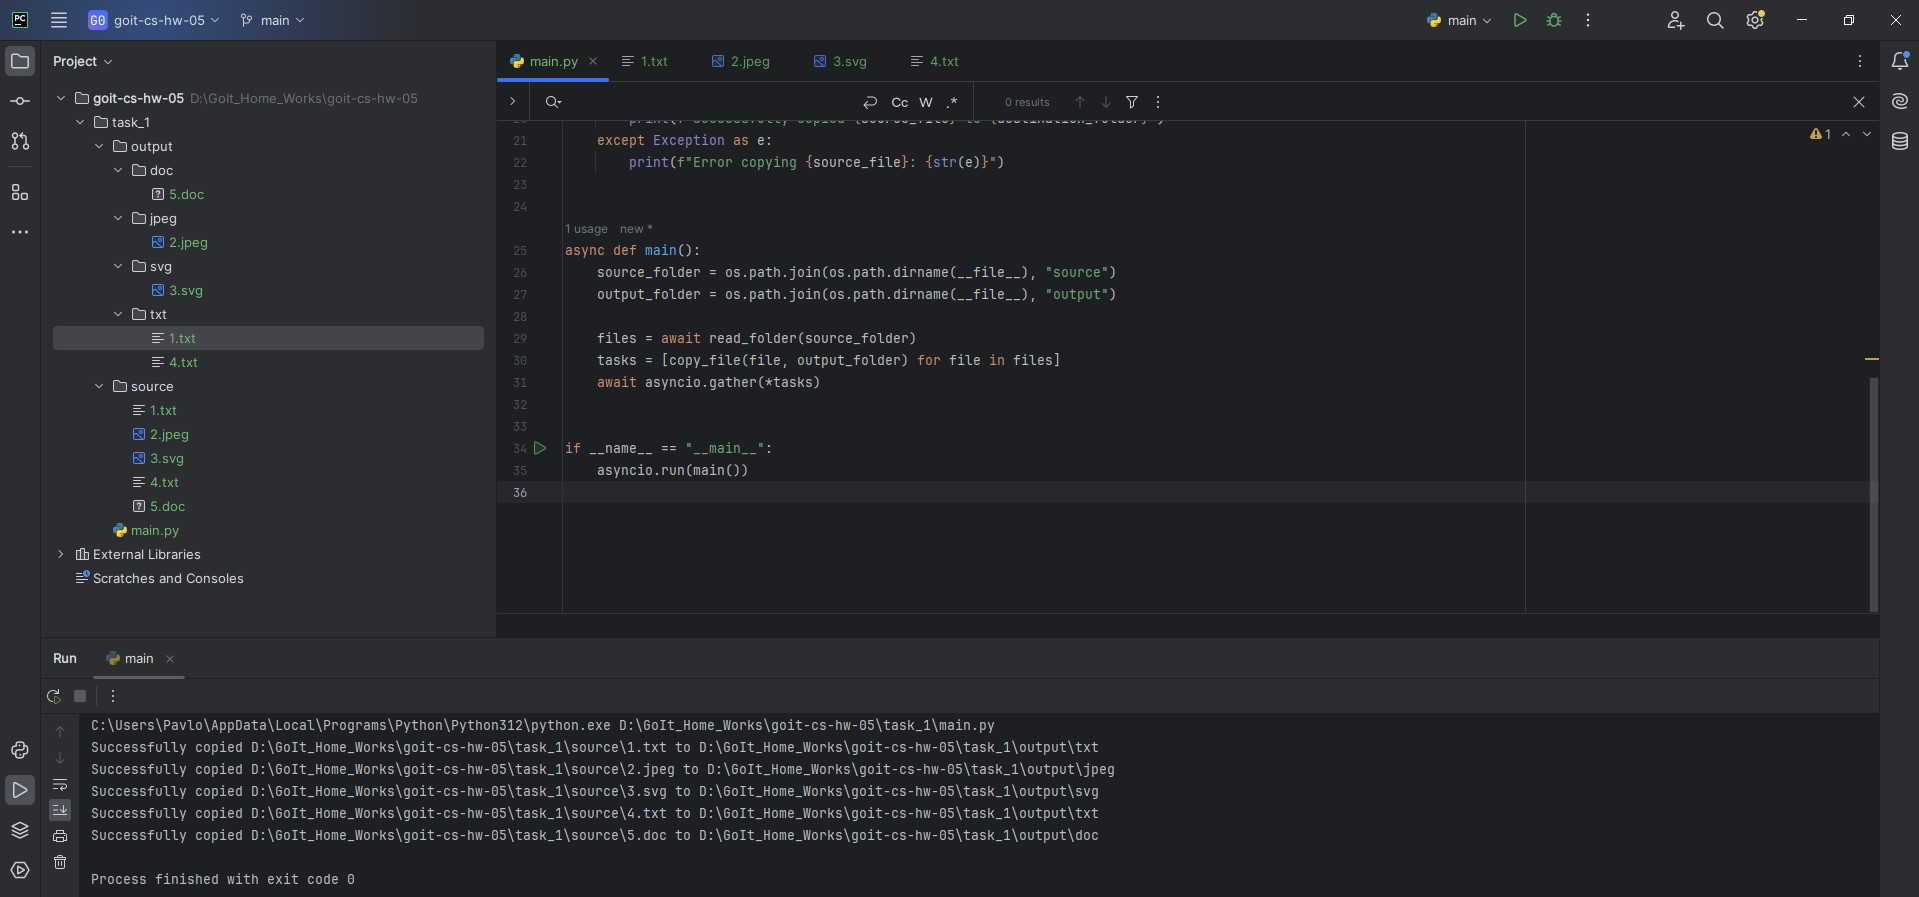
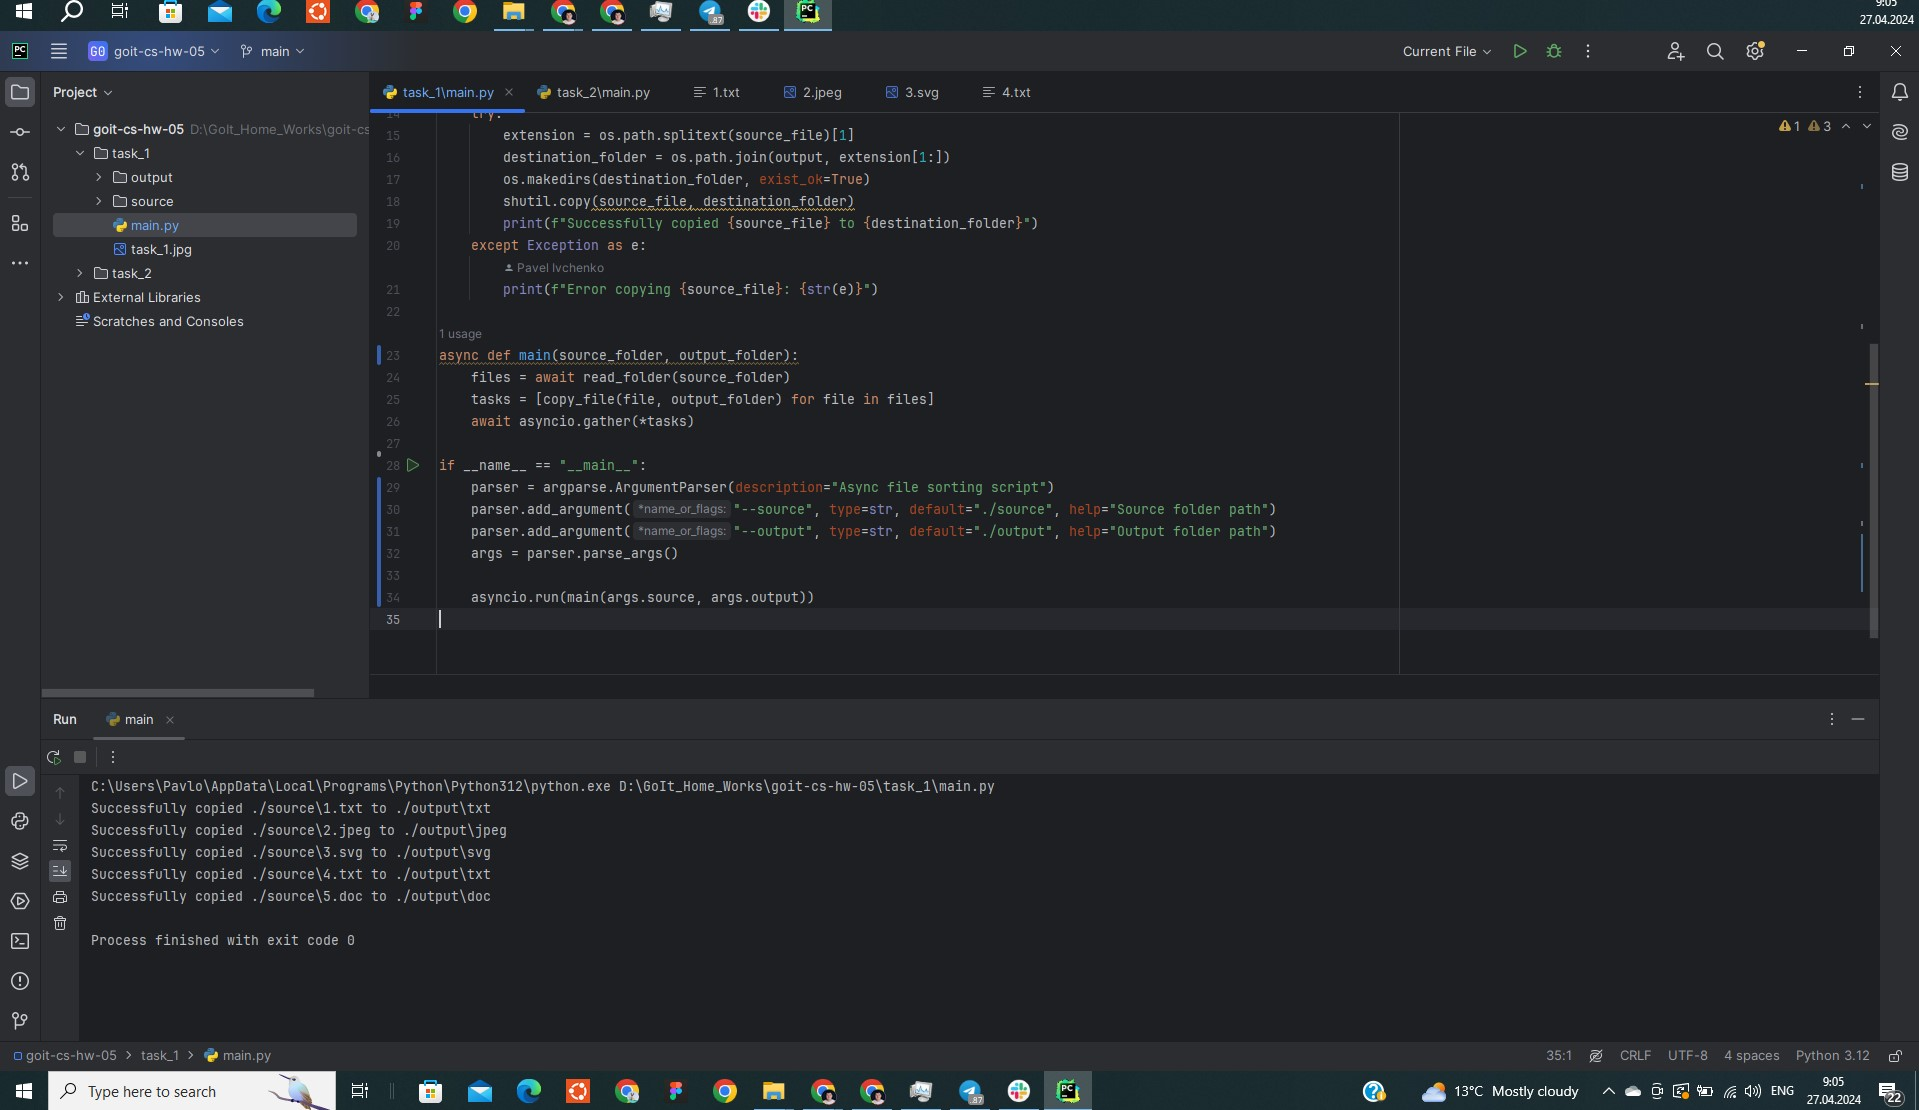
add argparse

diff --git a/task_1/main.py b/task_1/main.py
@@ -1,7 +1,7 @@
 import os
 import shutil
 import asyncio
-
+import argparse
 
 async def read_folder(source):
     files = []
@@ -9,7 +9,6 @@ async def read_folder(source):
         for filename in filenames:
             files.append(os.path.join(root, filename))
     return files
-
 
 async def copy_file(source_file, output):
     try:
@@ -21,15 +20,15 @@ async def copy_file(source_file, output):
     except Exception as e:
         print(f"Error copying {source_file}: {str(e)}")
 
-
-async def main():
-    source_folder = os.path.join(os.path.dirname(__file__), "source")
-    output_folder = os.path.join(os.path.dirname(__file__), "output")
-
+async def main(source_folder, output_folder):
     files = await read_folder(source_folder)
     tasks = [copy_file(file, output_folder) for file in files]
     await asyncio.gather(*tasks)
 
-
 if __name__ == "__main__":
-    asyncio.run(main())
+    parser = argparse.ArgumentParser(description="Async file sorting script")
+    parser.add_argument("--source", type=str, default="./source", help="Source folder path")
+    parser.add_argument("--output", type=str, default="./output", help="Output folder path")
+    args = parser.parse_args()
+
+    asyncio.run(main(args.source, args.output))
